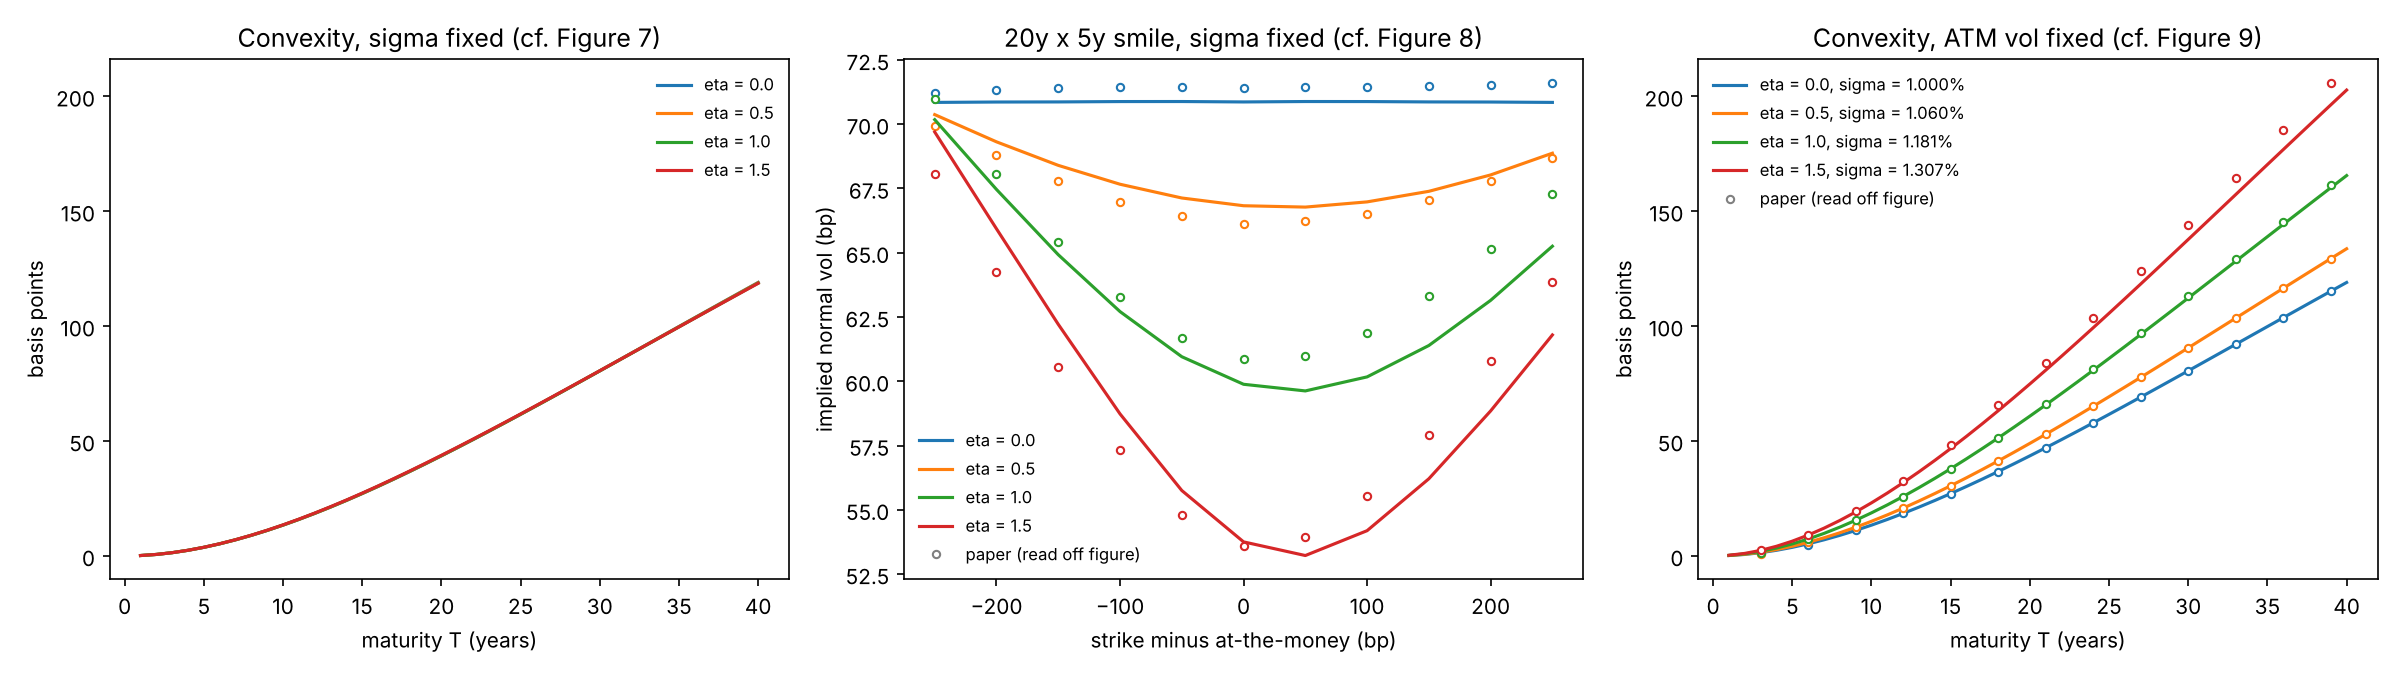
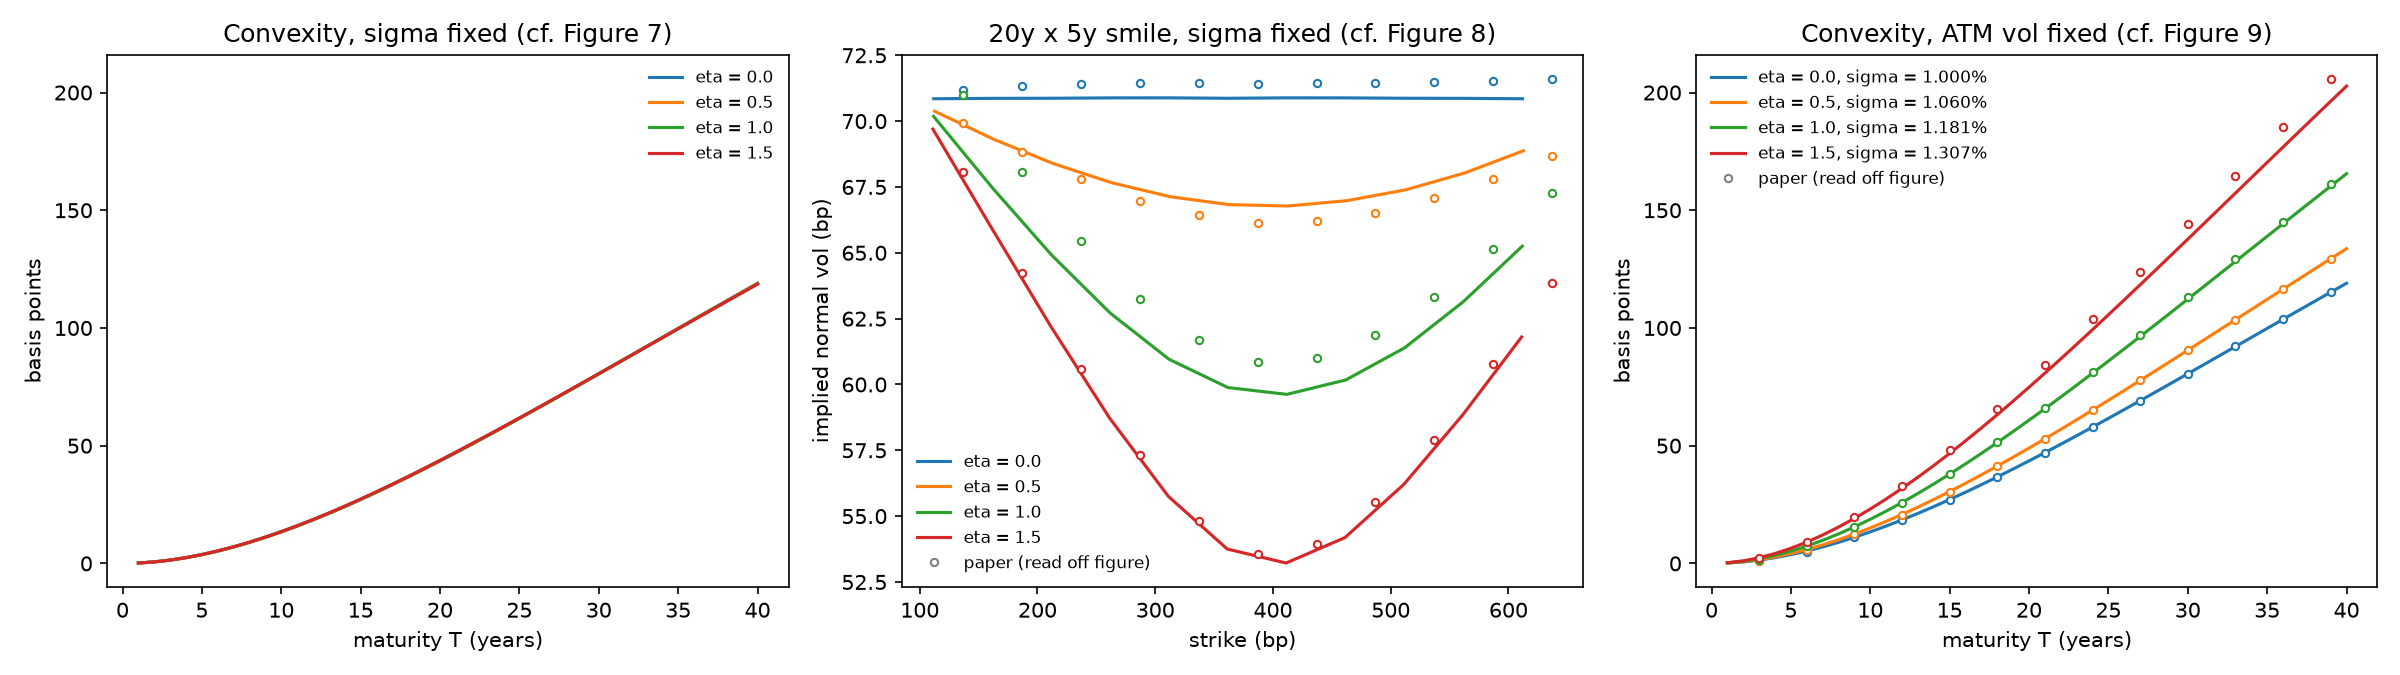
A4: compare Figure 8 on absolute strikes; trace its eta = 0 level to sampling
The smile minimum that appeared 50bp right of the paper's was an artefact
of the comparison: this code's offsets from the yield's mean (364bp at
20y) were plotted against the paper's offsets from the curve forward
(387bp). On absolute strikes the eta = 1.5 smile bottoms out at 401.2bp
against the paper's 400.4bp. examples/stochvol_sweep.py now plots both on
that axis, and test_figure_8_smile_minimum_on_absolute_strikes checks it
(the old axis reads 26.6bp off).

Figure 8's eta = 0 level (71.4bp; 71.5 in the text) is 0.55bp above the
exact Gaussian 70.86bp, and its line is tilted. No pricing convention tilts
a Gaussian smile; a Monte-Carlo run with 4k-16k plain paths misses by
0.55bp or more 20-41% of the time. Recorded as a paper inconsistency and
part of the question on path counts.

Claude-Session: https://claude.ai/code/session_01BcRqUsAha26YxdYLMJVkWB

diff --git a/examples/stochvol_sweep.py b/examples/stochvol_sweep.py
@@ -41,8 +41,9 @@ def main():
     pkey, skey = jax.random.PRNGKey(0), jax.random.PRNGKey(1)
 
     def smile(model):
-        _, p, _ = pr.yield_option_prices(model, curve, EXPIRY, offsets, ybar_fn, pkey,
-                                         n_paths=args.paths)
+        mean, p, _ = pr.yield_option_prices(model, curve, EXPIRY, offsets, ybar_fn, pkey,
+                                            n_paths=args.paths)
+        smile.mean = float(mean)          # strikes are mean + offset; the paper's are 387bp + offset
         return bl.implied_normal_vol(np.asarray(p), 0.0, offsets, EXPIRY)
 
     t = time_grid(40.0, steps_per_year=12)
@@ -58,12 +59,12 @@ def main():
         fixed = base._replace(eta=eta)
         recal = calibration.calibrate_yield_smile(fixed, curve, EXPIRY, offsets[5:6], [atm0],
                                                   free=("sigma",), key=pkey, n_paths=args.paths).model
-        rows.append((eta, smile(fixed), convexity(fixed), recal, convexity(recal)))
+        rows.append((eta, smile(fixed), convexity(fixed), recal, convexity(recal), smile.mean))
 
     ref9, ref8 = figs["fig9"], figs["fig8"]
     print(" eta | ATM vol, sigma fixed (paper) | recalibrated sigma | gamma(40y) recalibrated (paper) | "
           "gamma(40y) sigma fixed")
-    for eta, sm, dfix, recal, drec in rows:
+    for eta, sm, dfix, recal, drec, _ in rows:
         print(f" {eta:3.1f} | {BP*sm[5]:8.2f}bp ({ref8[f'eta={eta}'][5]:6.2f}bp)     | "
               f"{100*recal.sigma:17.4f}% | {BP*drec.gamma[-1]:7.1f} +- {BP*drec.gamma_se[-1]:3.1f}bp "
               f"({ref9[f'eta={eta}'][-1]:6.1f}bp)      | {BP*dfix.gamma[-1]:7.1f}bp")
@@ -74,10 +75,12 @@ def main():
 
     fig, (a, b, c) = plt.subplots(1, 3, figsize=(16, 4.5))
     ref_t = np.asarray(ref9["T"])
-    for i, (eta, sm, dfix, recal, drec) in enumerate(rows):
+    for i, (eta, sm, dfix, recal, drec, mean) in enumerate(rows):
         a.plot(dfix.T, BP * dfix.gamma, color=f"C{i}", label=f"eta = {eta}")
-        b.plot(BP * offsets, BP * sm, color=f"C{i}", label=f"eta = {eta}")
-        b.plot(BP * offsets, np.array(ref8[f"eta={eta}"], dtype=float), "o", ms=3.5,
+        # absolute strikes: this code's are offsets from the yield's mean, the
+        # paper's from its at-the-money line at the curve forward (387bp)
+        b.plot(BP * (mean + offsets), BP * sm, color=f"C{i}", label=f"eta = {eta}")
+        b.plot(387.0 + BP * offsets, np.array(ref8[f"eta={eta}"], dtype=float), "o", ms=3.5,
                color=f"C{i}", markerfacecolor="white")
         c.plot(drec.T, BP * drec.gamma, color=f"C{i}", label=f"eta = {eta}, sigma = {100*recal.sigma:.3f}%")
         c.plot(ref_t[11::12], np.array(ref9[f"eta={eta}"], dtype=float)[11::12], "o", ms=3.5,
@@ -86,7 +89,7 @@ def main():
         ax.plot([], [], "o", ms=3.5, color="grey", markerfacecolor="white", label="paper (read off figure)")
     a.set(xlabel="maturity T (years)", ylabel="basis points",
           title="Convexity, sigma fixed (cf. Figure 7)")
-    b.set(xlabel="strike minus at-the-money (bp)", ylabel="implied normal vol (bp)",
+    b.set(xlabel="strike (bp)", ylabel="implied normal vol (bp)",
           title="20y x 5y smile, sigma fixed (cf. Figure 8)")
     c.set(xlabel="maturity T (years)", ylabel="basis points",
           title="Convexity, ATM vol fixed (cf. Figure 9)")

diff --git a/tests/test_paper_replication.py b/tests/test_paper_replication.py
@@ -135,3 +135,22 @@ def test_short_rate_distribution_figure_13():
     assert 0.24 < np.mean(stats["atm"][1] < 0) < 0.30
     assert abs(np.median(stats["skew"][1])) < 40
     assert 0.44 < np.mean(stats["skew"][1] < 0) < 0.52
+
+
+def test_figure_8_smile_minimum_on_absolute_strikes():
+    """A4: on the paper's absolute strike axis the eta = 1.5 smile bottoms out
+    where Figure 8's does (about 400bp; the parabola through its three lowest
+    points). Comparing offsets from different references (this code's mean,
+    364bp; the paper's forward, 387bp) had put it 50bp to the right."""
+    from slidingcurve import bachelier as bl, pricing as pr
+    curve = markets.paper_curve("baseline")
+    off = 1e-4 * np.arange(-60.0, 141.0, 10.0)
+    mean, p, _ = pr.yield_option_prices(BASE._replace(eta=1.5), curve, 20.0, off,
+                                        lambda t: volscale.ybar_zeroth(curve, 5.0, t),
+                                        jax.random.PRNGKey(0), n_paths=2**16)
+    v = bl.implied_normal_vol(np.asarray(p), 0.0, off, 20.0)
+    lowest = 1e4 * (float(mean) + off[int(np.argmin(v))])
+    ref = np.array(markets.paper_figures()["fig8"]["eta=1.5"])
+    i = int(np.argmin(ref))
+    paper = 387.0 + 50.0 * (i - 5) + 50.0 * (ref[i - 1] - ref[i + 1]) / (2 * (ref[i - 1] + ref[i + 1] - 2 * ref[i]))
+    assert abs(lowest - paper) < 20.0

diff --git a/docs/investigation.md b/docs/investigation.md
@@ -21,6 +21,7 @@ paper are accurate to about 0.3bp (checked below).
 | ID | Issue | Status |
 |---|---|---|
 | A9 | Definition of the yield option | **pinned down** except one bounded choice; question to authors |
+| A4 | Figure 8 minimum and eta = 0 level | **fixed** (minimum: comparison axis); **paper inconsistency** (level) |
 | A5 | Section 8.2 uplift | **explained** |
 | A8 | Curve beyond the plotted range | **unresolved by construction**, bounded; question to authors |
 | A10 | Two values of sigma for the skew fit | **paper inconsistency**, confirmed |
@@ -142,6 +143,50 @@ At `b = 0.367` (`experiments/a6_skew_fit.py`, `a10_text_sigma.py`):
 either (the annual par swap would need 1.10% at `b = 0`). The test
 `test_papers_skew_parameters_reproduce_its_figure_11_fit_with_mean_referenced_strikes`
 checks both values.
+
+---
+
+## A4. Figure 8: position of the minimum and the eta = 0 level
+
+**Status: minimum fixed (it was a strike-axis artefact in the comparison,
+not in the model); the eta = 0 level is a paper inconsistency, most
+plausibly Monte-Carlo noise in the paper's own run.**
+
+The fix: `examples/stochvol_sweep.py` now plots both smiles against
+absolute strike (this code's at mean + offset, the paper's at its
+at-the-money line, 387bp, + offset), and
+`test_figure_8_smile_minimum_on_absolute_strikes` checks that the eta = 1.5
+smile bottoms out within 20bp of the paper's minimum (it is within 5bp; on
+the old axis it would have read 27bp off).
+
+*Minimum.* The old comparison plotted this code's strikes as offsets from
+its own mean (364bp at 20y) against the paper's offsets from the curve
+forward (387bp). On the paper's absolute strike axis the lowest point of
+this code's smile is where the paper's is (A9 table above); the parabola
+through the three lowest points puts the paper's minimum at 400-405bp and
+this code's at 404-407bp. In the expiry-forward measure the minimum would
+be at 365-370bp, so the comparison also confirms the measure.
+
+*Level.* At `b = 0`, `eta = 0`, `sigma = 1%` the option is Gaussian and its
+vol is exactly 70.86bp. Figure 8 plots 71.4 (text: 71.5) and its eta = 0
+line is not flat: it tilts from 71.2 to 71.6bp across strikes. No pricing
+convention makes a Gaussian smile tilt (A1 below), but a Monte-Carlo
+estimate does, since all strikes share the same paths.
+`experiments/a4_fig8_measures.py` measures the spread of the Gaussian
+at-the-money vol estimate for plain (non-antithetic) paths:
+
+| paths | spread of the ATM vol estimate | P(abs error >= 0.55bp) |
+|---|---|---|
+| 4,096 | 0.79bp | 0.41 |
+| 16,384 | 0.40bp | 0.20 |
+| 65,536 (this code, antithetic) | 0.33bp quoted s.e. | |
+
+So the paper's level is what a run with 4k-16k paths produces a fifth to
+two fifths of the time. Recalibrating Figure 9 to the paper's 71.5bp
+instead of the exact level was tried (A3): it breaks the match at eta = 0.5
+(136.1 against 133.6bp), so the paper's Figure 9 is not consistent with
+71.5bp as an exact target either. Only the path count and seed of the
+paper's run can settle this.
 
 ---
 

diff --git a/README.md b/README.md
@@ -181,10 +181,17 @@ Figure 9 is matched to within 1% up to `eta = 1` and is 5% low at
 `eta = 1.5`. The paper's convexity ratios equal the squared ratios of its
 at-the-money vols, as if `sigma` were rescaled linearly; here `sigma` is
 recalibrated on the simulated option, which is not exactly linear because the
-convexity state `y` is random under stochastic volatility. The paper's
-`eta = 0` level of 71.4bp is also 0.7% above the Gaussian closed form
-(70.9bp) that reproduces its own Section 9.4 `sigma`. Smile shapes agree to
-1-2bp, with this code's minimum sitting about 50bp to the right.
+convexity state `y` is random under stochastic volatility.
+
+Figure 8's smiles agree to 0.4-1.5bp, and on a common axis of absolute
+strikes their minima coincide (about 400bp; the smile above plots both
+against absolute strike). An earlier version of this comparison set this
+code's offsets from the yield's mean (364bp) against the paper's offsets
+from the forward (387bp), which made the minimum appear 50bp to the right
+(A4). The paper's `eta = 0` level, 71.4bp (71.5 in its text), is 0.55bp
+above the exact Gaussian value of 70.86bp and its line is tilted, which a
+Gaussian smile cannot be under any pricing convention: it looks like the
+sampling error of a run with a few thousand paths.
 
 Section 8.2 quotes an uplift of about 15%, 16% and 17.5% for `eta = 0.6`
 over ten years at `kappa = 0`, `0.03` and `0.05`. Those are exactly the

diff --git a/docs/questions_for_authors.md b/docs/questions_for_authors.md
@@ -30,6 +30,25 @@ and is the payment date `T + 5`?
 
 ---
 
+## Q2 (A3, A4, A6, A7)
+
+**How many paths (and were they antithetic or quasi-random) did the runs
+behind Figures 8, 9 and 11 use?**
+
+At `b = 0`, `eta = 0`, `sigma = 1%` the 20y x 5y option is Gaussian with a
+vol of exactly 70.86bp; Figure 8 plots 71.4 and the text says 71.5, and the
+eta = 0 line tilts from 71.2 to 71.6. A plain Monte-Carlo run with 4,096
+(16,384) paths misses 70.86 by 0.55bp or more 41% (20%) of the time. Your
+Figure 8 values at eta = 0.5, 1, 1.5 differ from our precise ones by
+-0.7, +1.2 and +0.3bp, non-monotonically. If the runs used a few thousand
+paths this also covers Figure 9 at eta = 1.5 (we get 204.2 +- 1.3 against
+your 212.8; our single-run spread is 2.6bp at 65,536 paths and would be
+5-10bp at 4k-16k), the gap between your skew fit (1.1999%, 0.367) and ours
+(1.1890%, 0.353, single-fit spread 0.0055% and 0.0027), and where your
+three-parameter fit stopped (A7).
+
+---
+
 ## Q3 (A6, A10)
 
 **What weights did the skew fit of Figure 11 use, and is "sigma = 1.12%" in
